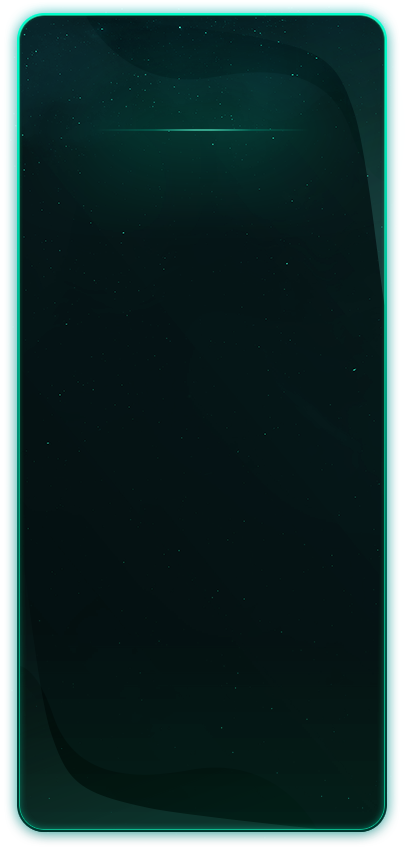
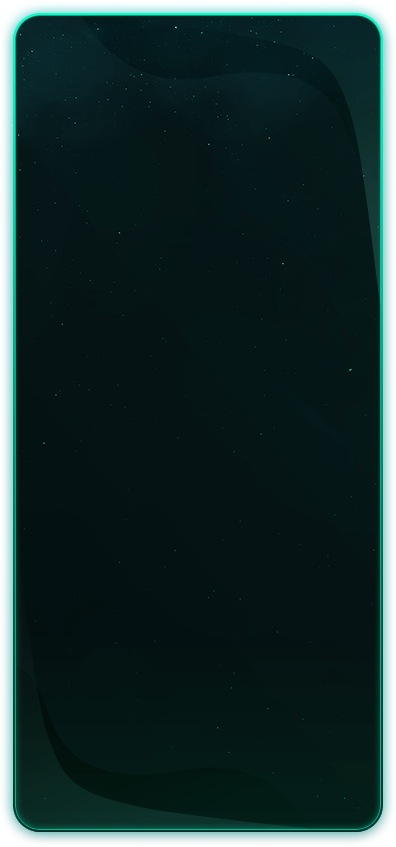
fix hero board view

Changed region(s): [[0.8788, 0.0, 1.0, 0.9823], [0.0, 0.0, 0.0909, 0.9823], [0.3333, 0.1228, 0.6667, 0.1842]]

diff --git a/src/render/panels/HeroBoardPanel.ts b/src/render/panels/HeroBoardPanel.ts
@@ -36,25 +36,19 @@ export class HeroBoardPanel {
             raceId: p.raceId,
             raceOption: p.raceOption,
         });
-        const headerHeight = 86;
+        const headerHeight = 120;
         const panelH = 360 + headerHeight + modulesSectionHeight + abilitiesSectionHeight;
-        const panelX = app.renderer.width - panelW - 20;
+        const panelX = app.renderer.width - panelW - 40;
         const panelY = 70;
 
         const panelTexture = AssetLoader.getTexture("heroCard");
         if (panelTexture) {
             const bgSprite = new PIXI.Sprite(panelTexture);
-            bgSprite.x = panelX;
+            bgSprite.x = panelX - 20;
             bgSprite.y = panelY;
-            bgSprite.width = panelW;
+            bgSprite.width = panelW + 40;
             bgSprite.height = panelH;
             layer.addChild(bgSprite);
-        } else {
-            const bg = new PIXI.Graphics();
-            bg.roundRect(panelX, panelY, panelW, panelH, 12);
-            bg.fill({ color: 0x0d1117, alpha: 0.96 });
-            bg.stroke({ color: playerColor, width: 3 });
-            layer.addChild(bg);
         }
 
         this.headerSection.render({

diff --git a/src/render/panels/heroBoard/HeroBoardHeaderSection.ts b/src/render/panels/heroBoard/HeroBoardHeaderSection.ts
@@ -5,12 +5,6 @@ type HeaderContext = HeroBoardHeaderContext & HeroBoardHeaderData;
 
 export class HeroBoardHeaderSection {
     render({ layer, panelX, panelY, panelW, headerHeight, playerColor, playerId }: HeaderContext): void {
-        const headerBg = new PIXI.Graphics();
-        headerBg.roundRect(panelX + 12, panelY + 10, panelW - 24, headerHeight - 16, 10);
-        headerBg.fill({ color: 0x111827, alpha: 0 });
-        headerBg.stroke({ color: playerColor, width: 1, alpha: 0.25 });
-        layer.addChild(headerBg);
-
         const portraitBox = new PIXI.Graphics();
         portraitBox.roundRect(panelX + 22, panelY + 26, 60, 60, 12);
         portraitBox.fill({ color: 0x0b1220 });

diff --git a/src/render/panels/heroBoard/HeroBoardAbilitiesSection.ts b/src/render/panels/heroBoard/HeroBoardAbilitiesSection.ts
@@ -54,11 +54,7 @@ export class HeroBoardAbilitiesSection {
         const contentHeight =
             titleText.height + passiveText.height + optionText.height + padding * 2 + spacing * 2;
 
-        const box = new PIXI.Graphics();
-        box.roundRect(leftX, y, sectionWidth, contentHeight, 8);
-        box.fill({ color: 0x0f172a, alpha: 0 });
-        box.stroke({ color: 0x334155, width: 1, alpha: 0.4 });
-        layer.addChild(box);
+
 
         let textY = y + padding;
         titleText.position.set(leftX + padding, textY);

diff --git a/src/render/panels/heroBoard/HeroBoardModulesSection.ts b/src/render/panels/heroBoard/HeroBoardModulesSection.ts
@@ -31,7 +31,7 @@ export class HeroBoardModulesSection {
 
     getSectionHeight(builtCount: number): number {
         const moduleRows = Math.max(1, builtCount);
-        const moduleRowHeight = 36;
+        const moduleRowHeight = 42;
         return 22 + moduleRows * moduleRowHeight + 6;
     }
 
